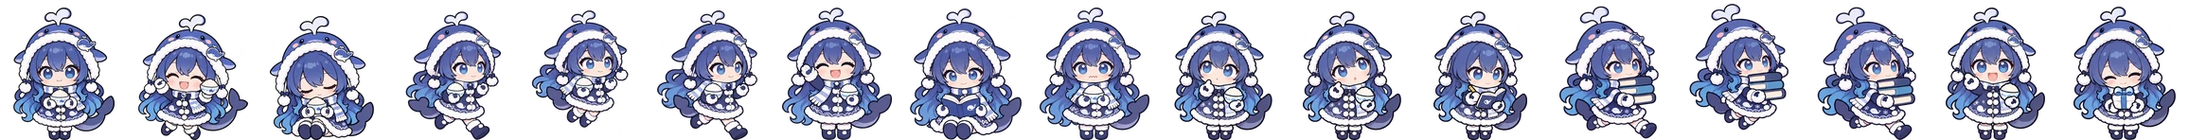
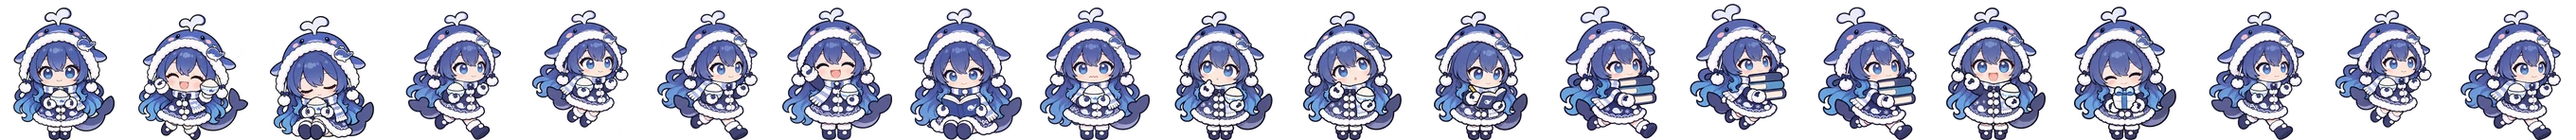
迷你小帮手：拼图加 3 格移动帧（move-a/b/c），出 9 张移动图的题
- FRAMES 共 20 格；没画移动图的角色先用跑步 3 帧顶上
- mini_cut 支持 mini_move（按头宽缩放、脚对齐）和 --move-batch
- mini_art 加 --base-batch：本批没有底图时去别的批次找
- 加 迷你-移动 规则、mini_move 姿态，四个原版角色文件补 mini_move 动作

diff --git a/app/web/mini-helper.js b/app/web/mini-helper.js
@@ -6,7 +6,8 @@
 // moodOf 是纯函数，网页和测试（tests/mini_helper.test.js）共用；attach 只在网页里用。
 ;(function (root) {
   const FRAMES = ['idle', 'happy', 'sleep', 'run-a', 'run-b', 'run-c', 'wave', 'read', 'worried',
-    'think-a', 'think-b', 'notes', 'carry-a', 'carry-b', 'carry-c', 'point', 'gift']
+    'think-a', 'think-b', 'notes', 'carry-a', 'carry-b', 'carry-c', 'point', 'gift',
+    'move-a', 'move-b', 'move-c']
   const CELL_W = 136, CELL_H = 148          // 和 tools/mini_sheet.py 一样
   // 画布（#stage 250×241）里的尺寸：站着的小人 43 高（桌宠画布 580×560 里 100 高，人物 420 高）
   const K = 43 / 140

diff --git a/tools/mini_cut.py b/tools/mini_cut.py
@@ -1,8 +1,9 @@
 """迷你小帮手：把一个角色画好的 4 张格子图切成单帧、拼成 characters/<角色>/mini.webp（桌宠网页 app/web/mini-helper.js 用）。
 
-    python3 tools/mini_cut.py <批次> <角色>[,<角色>…] [--use mini_carry=1] [--frames <目录>]
+    python3 tools/mini_cut.py <批次> <角色>[,<角色>…] [--use mini_carry=1] [--move-batch <批次>] [--frames <目录>]
 
 用哪版：验收页选了哪版用哪版（状态.json 的 pick），没选用版本号最大的；--use 姿态=版本号 可以临时指定。
+--move-batch：mini_move（飞 / 游 / 蹿的 3 帧）去那个批次找，不写就在本批找；找不到就不报错，move-a/b/c 用 run-a/b/c 顶上。
 --frames：单帧另存一份到 <目录>/<角色>/（看切得对不对用），不写就只出 mini.webp。
 
 四张图（规格见 art/规则/迷你*.txt）：
@@ -10,6 +11,7 @@
   mini_more  横图 3×2：跑步 3 帧；挥手、看书、着急
   mini_work  横图 3×2：思考 2 帧、记笔记；抱书（单帧，不用）、指你、递礼物
   mini_carry 横图 3×1：抱书跑 3 帧
+  mini_move  横图 3×1：移动 3 帧（可选；飞 / 游的身体是横的，按头宽对齐大小，脚对齐左右）
 缩放：每张按站着的小人缩到 STAND 高（mini 用待机、mini_more 用挥手、mini_work 用指你），抱书跑按 mini_work 里那个抱书的对齐大小，
 四张图之间大小一致。连着播的几帧（跑步、抱书跑按头对齐，思考按脚对齐）共用一个框，放进格子后不会左右抖、腾空那帧还是离地的。
 """
@@ -59,6 +61,13 @@ def center_x(cell, part):
     return (m[0] + m[2]) / 2
 
 
+def head_width(cell):
+    """外框最上面 25% 的不透明宽度（飞 / 游的身体是横的，用头宽比身高稳）"""
+    b = bbox(cell)
+    m = mask(cell).crop((0, b[1], cell.width, b[1] + max(1, (b[3] - b[1]) // 4))).getbbox()
+    return m[2] - m[0]
+
+
 def group(cs, part):
     """连着播的几帧：按头 / 脚对齐左右，共用一个框（上下不动，腾空的还是离地）"""
     ref = center_x(cs[0], part)
@@ -79,13 +88,21 @@ def sheet_path(batch, st, cid, pose, use):
     return art.done_path(batch, st, cid, pose)
 
 
-def cut(batch, cid, use):
+def move_frames(cs, k_more, wave):
+    """mini_move 3 格：按头宽缩到和 mini_more 里挥手那个一样大，脚对齐"""
+    k = k_more * head_width(wave) / head_width(cs[0])
+    return {name: scaled(c, k) for name, c in zip(("move-a", "move-b", "move-c"), group(cs, "feet"))}
+
+
+def cut(batch, cid, use, move_batch=None):
     st = art.load(batch)
     src = {p: sheet_path(batch, st, cid, p, use) for p in ("mini", "mini_more", "mini_work", "mini_carry")}
     missing = [p for p, f in src.items() if not f]
     if missing:
         raise SystemExit(f"{cid}：还没画 {', '.join(missing)}")
     print(f"{cid}：" + "、".join(f"{p} {Path(f).stem.rsplit('__', 1)[1]}" for p, f in src.items()))
+    mv = sheet_path(move_batch or batch, art.load(move_batch) if move_batch else st, cid, "mini_move", use)
+    print(f"  mini_move：{Path(mv).stem.rsplit('__', 1)[1] if mv else '没有，用跑步顶'}")
     im = {p: Image.open(f).convert("RGBA") for p, f in src.items()}
     out = {}
 
@@ -98,6 +115,7 @@ def cut(batch, cid, use):
     k = STAND / (bbox(m[3])[3] - bbox(m[3])[1])
     for name, c in zip(("run-a", "run-b", "run-c"), group(m[:3], "head")):
         out[name] = scaled(c, k)
+    k_more = k
     for name, c in zip(("wave", "read", "worried"), m[3:]):
         out[name] = scaled(c.crop(bbox(c)), k)
 
@@ -113,6 +131,12 @@ def cut(batch, cid, use):
     k = k_work * carry_h / (bbox(cc[0])[3] - bbox(cc[0])[1])
     for name, c in zip(("carry-a", "carry-b", "carry-c"), group(cc, "head")):
         out[name] = scaled(c, k)
+
+    if mv:
+        out.update(move_frames(cells(Image.open(mv).convert("RGBA"), 3, 1), k_more, m[3]))
+    else:
+        for a, b in (("move-a", "run-a"), ("move-b", "run-b"), ("move-c", "run-c")):
+            out[a] = out[b]
     return out
 
 
@@ -139,6 +163,11 @@ def main():
         pose, v = args[i + 1].split("=")
         use[pose] = int(v)
         del args[i:i + 2]
+    move_batch = None
+    if "--move-batch" in args:
+        i = args.index("--move-batch")
+        move_batch = args[i + 1]
+        del args[i:i + 2]
     if "--frames" in args:
         i = args.index("--frames")
         frames_dir = Path(args[i + 1])
@@ -147,7 +176,7 @@ def main():
         raise SystemExit(__doc__)
     batch, chars = args[0], args[1].split(",")
     for cid in chars:
-        frames = cut(batch, cid, use)
+        frames = cut(batch, cid, use, move_batch)
         if frames_dir:
             d = frames_dir / cid
             d.mkdir(parents=True, exist_ok=True)

diff --git a/tools/mini_art.py b/tools/mini_art.py
@@ -8,6 +8,9 @@
     python3 tools/mini_art.py new <批次> mini mini_more mini_work mini_carry --chars deepseek,gemini,…,deepseek-hoodie
     python3 tools/mini_art.py redo <批次> <角色:姿态> "原因"
 
+    python3 tools/mini_art.py new <批次> mini_move --chars gpt,… --base-batch <批次>
+--base-batch：本批没有底图（原版的 mini_more）时去那个批次找（loki 选的那版优先，没选用版本号最大的）。
+
 出题 / 退回重写提示词的 mini 批次请用这个，不要直接用 art.py（art.py 会按普通姿态重写，皮肤就没了底图）。
 check、review、status 两个都一样。
 """
@@ -19,6 +22,19 @@ import art  # noqa: E402
 
 _read_pose = art.read_pose
 _write_prompt = art.write_prompt
+_base_source = art.base_source
+BASE_BATCH = None
+
+
+def base_source(batch, st, cid, base_pose):
+    src, in_batch = _base_source(batch, st, cid, base_pose)
+    if in_batch or not BASE_BATCH:
+        return src, in_batch
+    other = art.load(BASE_BATCH)
+    if any(i["char"] == cid and i["pose"] == base_pose for i in other["items"]):
+        found = art.done_path(BASE_BATCH, other, cid, base_pose) or art.done_pattern(BASE_BATCH, cid, base_pose)
+        return found, False
+    return src, in_batch
 
 
 def read_pose(pose, cid=""):
@@ -79,6 +95,11 @@ def write_prompt(batch, st, item):
 
 art.read_pose = read_pose
 art.write_prompt = write_prompt
+art.base_source = base_source
 
 if __name__ == "__main__":
+    if "--base-batch" in sys.argv:
+        i = sys.argv.index("--base-batch")
+        BASE_BATCH = sys.argv[i + 1]
+        del sys.argv[i:i + 2]
     art.main()

diff --git a/tests/mini_cut_test.py b/tests/mini_cut_test.py
@@ -1,0 +1,36 @@
+"""mini_cut 的 mini_move 切图：用合成的 3×1 横图试头宽缩放和脚对齐"""
+import sys
+import unittest
+from pathlib import Path
+
+from PIL import Image, ImageDraw
+
+sys.path.insert(0, str(Path(__file__).resolve().parent.parent / "tools"))
+import mini_cut  # noqa: E402
+
+
+def blob(w, h, head_w, size=(120, 200)):
+    """一个小人：上面一块头（head_w 宽），下面一条身体"""
+    im = Image.new("RGBA", size, (0, 0, 0, 0))
+    d = ImageDraw.Draw(im)
+    x0 = (size[0] - head_w) // 2
+    d.rectangle((x0, 20, x0 + head_w, 20 + h // 3), fill=(255, 0, 0, 255))
+    d.rectangle((size[0] // 2 - w // 2, 20 + h // 3, size[0] // 2 + w // 2, 20 + h), fill=(0, 0, 255, 255))
+    return im
+
+
+class MoveFrames(unittest.TestCase):
+    def test_head_width_scaling(self):
+        wave = blob(20, 90, 40)                       # 头宽 40
+        sheet = Image.new("RGBA", (360, 200), (0, 0, 0, 0))
+        for i in range(3):
+            sheet.alpha_composite(blob(30, 90, 20), (i * 120, 0))   # 头宽 20，要放大 2 倍
+        cs = mini_cut.cells(sheet, 3, 1)
+        out = mini_cut.move_frames(cs, 1.0, wave)
+        self.assertEqual(list(out), ["move-a", "move-b", "move-c"])
+        self.assertAlmostEqual(mini_cut.head_width(out["move-a"]), 40, delta=3)
+        self.assertEqual(len({f.size for f in out.values()}), 1)   # 同一个框
+
+
+if __name__ == "__main__":
+    unittest.main()

diff --git a/tools/mini_sheet.py b/tools/mini_sheet.py
@@ -11,7 +11,8 @@ from pathlib import Path
 from PIL import Image
 
 FRAMES = ["idle", "happy", "sleep", "run-a", "run-b", "run-c", "wave", "read", "worried",
-          "think-a", "think-b", "notes", "carry-a", "carry-b", "carry-c", "point", "gift"]
+          "think-a", "think-b", "notes", "carry-a", "carry-b", "carry-c", "point", "gift",
+          "move-a", "move-b", "move-c"]
 CELL_W, CELL_H = 136, 148
 ROOT = Path(__file__).resolve().parent.parent
 

diff --git a/art/角色/deepseek.md b/art/角色/deepseek.md
@@ -32,3 +32,4 @@ How she shows emotion: with her whole body. Tail wags, droops or flicks; the aho
 - friend_up: Holding a round white rice ball (onigiri with a small nori strip) out in front of her with both hands at chest height, as if offering to share it; big open grin, eyes sparkling, ahoge up, whale tail flicked up.
 - swamped_left: Total chaos, still cute: papers stacked up to her chin, the top sheets sliding toward the viewer's LEFT (still touching the stack), she hops on one foot leaning that way to balance them, swirly eyes, a small wobbly mouth with a tiny fang, ahoge spinning into a tight spiral, tail flailing, a sweat drop.
 - swamped_right: Same as swamped-left but the papers slide toward the viewer's RIGHT and she hops and leans that way.
+- mini_move: Swimming through the air to the right like a little whale, body leaning forward almost horizontal, three frames of one tail stroke: tail fin up, level, down; hair flowing back.

diff --git a/art/角色/gpt.md b/art/角色/gpt.md
@@ -34,3 +34,4 @@ How she shows emotion: through wings and tail (wings spread when happy or proud,
 - friend_up: Looking away to one side with the back of one hand raised to her mouth, but her eyes glance back toward the viewer; a faint blush, a tiny smile she is trying to hide, tail tip curling, wings lifted just slightly. Composed, not giddy.
 - swamped_left: Composure cracking: leaning toward the viewer's LEFT tapping the tablet, the tail holding a scroll, one wing curled forward pinning a second small tablet against her side, a forced elegant smile with two sweat drops, slightly wide eyes, a few hair strands out of place.
 - swamped_right: Same as swamped-left but leaning toward the viewer's RIGHT, with the tablet, scroll and pinned tablet swapping sides accordingly.
+- mini_move: Flying to the right with her small dragon wings, three frames of one wingbeat: wings up, wings level, wings down; feet off the ground, tail streaming behind.

diff --git a/art/姿态/mini_move.md b/art/姿态/mini_move.md
@@ -1,0 +1,8 @@
+# mini_move · 迷你小帮手 · 移动 3 帧
+
+用途: 她干活或待机时小帮手绕着她移动，换帧轮播。怎么动按原版角色分三种，由角色文件 `## 动作` 里的 `mini_move` 那一行定：fly（gpt，扇翅膀飞）、swim（deepseek，像小鲸鱼在空中游）、pounce（gemini、glm，像猫 / 狐狸一蹿一蹿地跳）。其他角色用跑步（mini_more 的跑步 3 帧），不出这张。一张横图一排三个，程序按透明区域切开。
+规则: 迷你-移动
+底图: mini_more
+默认动作: Running to the right in three frames of one stride, the same tiny helper as the first attachment.
+
+不是桌宠动作，机检的全身立绘规则不适用，人工验收。底图是 mini_more 那张（loki 选的那版），三帧要和它里面的小人一模一样，只有动作在变。飞 / 游的身体是横的，切图按头宽对齐大小。

diff --git a/art/角色/gemini.md b/art/角色/gemini.md
@@ -33,3 +33,4 @@ How she shows emotion: cat body language. Ears perk up or flatten, tail puffs, c
 - friend_up: One paw-hand raised beside her cheek in a beckoning-cat wave, the other paw at her chest; ears tilted forward, a delighted ":3" smile with a light blush, fluffy tail curled into a hook.
 - swamped_left: Overwhelmed cat: laptop tucked under one arm, tapping it with the paw-hand, the tail curled up holding a small pencil as a third hand, leaning toward the viewer's LEFT on one foot, fur and tail puffed up, ears flattened back, round surprised eyes, a small wobbly ':3', one sweat drop.
 - swamped_right: Same as swamped-left but leaning toward the viewer's RIGHT with the tasks swapping sides.
+- mini_move: Bounding to the right like a cat: crouch to spring, mid-leap stretched out with both feet off the ground, landing on front paws; tail up.

diff --git a/art/角色/glm.md b/art/角色/glm.md
@@ -34,3 +34,4 @@ How she shows emotion: fox body language (ears perk up or flatten, the big tail 
 - friend_up: Her Z book tucked under one arm, the other hand holding one finger up in front of her lips as if to say "just for you"; a sly, pleased closed-eye fox smile, ears perked up, big tail swishing to one side.
 - swamped_left: The calm mask slips: leaning toward the viewer's LEFT writing in her Z book, the tail wrapped around a second book, one ear pinned back, the sleep mask slipping down over one eye, a strained but still cute 'ahaha…' smile, sweat drops, bells swinging hard.
 - swamped_right: Same as swamped-left but leaning toward the viewer's RIGHT with the tasks swapping sides.
+- mini_move: Bounding to the right like a fox: crouch to spring, mid-leap stretched out with both feet off the ground, landing on front paws; tail up.
